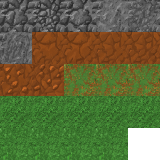
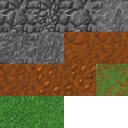
finished terrainsaving so far - some errors at reloading?
Implemented double Jump and pseudo terrain generation

diff --git a/src/org/jcing/jcingworld/engine/entities/Player.java b/src/org/jcing/jcingworld/engine/entities/Player.java
@@ -28,7 +28,22 @@ public class Player extends Entity {
 	private float upwardsSpeed = 0;
 	private float rightSpeed = 0;
 
+	
+	
+	private float xRotDelta;
+	private boolean doubleJumpRotation;
+	private long lastJump;
+	private float doubleJumpRotationDegrees;
+	private float doubleJumpRotationSpeed;
+	private static final float DOUBLEJUMPROTATIONACCELERATION= 37.5f;
+	private static final long JUMPTIMEDELTA = 150;
+	private static final float MAXDOUBLEJUMPROTATIONSPEED = 7.5f;
+	private static final int MAXDOUBLEJUMPS = 1;
+	
 	private Terrain terrain;
+	private boolean spaceReleased;
+	private float xRotDJDelta;
+	private int doubleJumps;
 
 	public Player(TexturedModel model, Vector3f position, float rotX, float rotY, float rotZ, float scale, Terrain terrain) {
 		super(model, position, rotX, rotY, rotZ, scale);
@@ -75,9 +90,23 @@ public class Player extends Entity {
 			upwardsSpeed += GRAVITY * DisplayManager.getFrameTimeSeconds();
 			if (KeyBoard.key(GLFW.GLFW_KEY_SPACE)) {
 				jump();
+				spaceReleased = false;
+			}else{
+				spaceReleased = true;
 			}
 		}
+		if(doubleJumpRotation){
+			if(doubleJumpRotationSpeed < MAXDOUBLEJUMPROTATIONSPEED)
+				doubleJumpRotationSpeed += DOUBLEJUMPROTATIONACCELERATION*DisplayManager.getFrameTimeSeconds();
 
+			doubleJumpRotationDegrees += doubleJumpRotationSpeed;
+			if(doubleJumpRotationDegrees >= 360){
+				doubleJumpRotationDegrees = 0;
+				doubleJumpRotation = false;
+			}
+		}
+		xRotDJDelta = doubleJumpRotationDegrees;
+		
 		// ROTATION Horizontal
 		this.increaseRotation(0, (float) (Mouse.deltaX * TURN * DisplayManager.getFrameTimeSeconds()), 0);
 
@@ -85,9 +114,12 @@ public class Player extends Entity {
 		if ((float) (Mouse.deltaY * TURN * DisplayManager.getFrameTimeSeconds()) + getRotX() > -90
 				&& (float) (Mouse.deltaY * TURN * DisplayManager.getFrameTimeSeconds()) + getRotX() < 90) {
 
-			this.increaseRotation((float) (Mouse.deltaY * TURN * DisplayManager.getFrameTimeSeconds()), 0, 0);
+			xRotDelta += (float) (Mouse.deltaY * TURN * DisplayManager.getFrameTimeSeconds());
+		}else{
+			System.out.println(getRotX());
 		}
-
+		xRotDelta %= 180;
+		this.setRotX((xRotDelta + xRotDJDelta) % 360);
 		// MOVEMENT
 
 		float distanceUp = 0.0f;
@@ -116,6 +148,7 @@ public class Player extends Entity {
 			// NOT FLYING
 			if (getPosition().y + speedUp < terrain.getHeightAt(getPosition().x, getPosition().z)) {
 				inAir = false;
+				doubleJumps = 0;
 				upwardsSpeed = 0;
 				speedUp = 0;
 				getPosition().y = terrain.getHeightAt(getPosition().x, getPosition().z);
@@ -139,11 +172,18 @@ public class Player extends Entity {
 
 	private void jump() {
 		if (!inAir) {
+			lastJump = DisplayManager.getLastFrameTime();
 			this.upwardsSpeed = JUMP_POWER;
+		}else if(!doubleJumpRotation && spaceReleased && doubleJumps < MAXDOUBLEJUMPS && DisplayManager.getLastFrameTime() - lastJump >= JUMPTIMEDELTA){
+			doubleJumps++;
+			doubleJumpRotationSpeed = 0;
+			this.upwardsSpeed += JUMP_POWER*(doubleJumps+2f)/3;
+			doubleJumpRotation = true;
 		}
 		inAir = true;
 	}
 
+	
 	public void moveCamera(Camera cam) {
 		// System.out.println("Y: " + getPosition().y);
 		cam.setPosition(new Vector3f(getPosition().x, getPosition().y + CAMERA_HEADOFFSET, getPosition().z));

diff --git a/src/org/jcing/jcingworld/engine/terrain/DataChunk.java b/src/org/jcing/jcingworld/engine/terrain/DataChunk.java
@@ -133,18 +133,28 @@ public class DataChunk {
 		assembleKeys();
 		Thread th = new Thread(){
 		    public void run(){
-		        WorldSaverFrame frame = new WorldSaverFrame();
+//		        WorldSaverFrame frame = new WorldSaverFrame();
 		        int i=0;
 		        for (int x : assembledKeys.keySet()) {
-		            frame.percent = (double)i/assembledKeys.size();
-		            frame.repaint();
+//		            frame.percent = (double)i/assembledKeys.size();
+//		            frame.repaint();
 		            save(x, assembledKeys.get(x));
+		            System.out.println("saved " + x + "|" + assembledKeys.get(x));
 		            i++;
 		        }
-		        frame.dispose();
+//		        frame.dispose();
+		        System.out.println("finished saving!");
+		        try {
+					join();
+				} catch (InterruptedException e) {
+					// TODO Auto-generated catch block
+					e.printStackTrace();
+				}
 		    }
 		};
 		th.run();
+		
+		
 	}
 
 	private boolean loaded(int xF, int zF) {

diff --git a/src/org/jcing/jcingworld/engine/terrain/Terrain.java b/src/org/jcing/jcingworld/engine/terrain/Terrain.java
@@ -136,8 +136,8 @@ public class Terrain {
 	}
 
 	public int tex(float x, float z, int max) {
-		// TODO Auto-generated method stub
-		return (int) Maths.fastFloor(gen.tex(x, z) * max);
+		System.out.println("TEX: " + (int)(gen.tex(x, z)));
+		return (int)(gen.tex(x, z) * (max-1));
 	}
 
 	boolean isSupposedToUnload(Point chunk) {
@@ -164,6 +164,16 @@ public class Terrain {
 		unloaded.clear();
 	}
 
+	
+	public void finish(){
+		ulc.setRunning(false);
+		try {
+			ulc.join();
+		} catch (InterruptedException e) {
+			// TODO Auto-generated catch block
+			e.printStackTrace();
+		}
+	}
 	//    public float getHeight(float x, float z) {
 	//        // float z = globalZ; // switch weil faul und fehler
 	//        // float x = globalX;

diff --git a/src/org/jcing/jcingworld/engine/DisplayManager.java b/src/org/jcing/jcingworld/engine/DisplayManager.java
@@ -152,6 +152,10 @@ public class DisplayManager {
         lastFrameTime = currentFrameTime;
         glfwPollEvents();
     }
+    
+    public static long getLastFrameTime(){
+    	return lastFrameTime;
+    }
 
     public static float getFrameTimeSeconds() {
         return delta;

diff --git a/src/org/jcing/jcingworld/engine/terrain/MapGenerator.java b/src/org/jcing/jcingworld/engine/terrain/MapGenerator.java
@@ -52,7 +52,7 @@ public class MapGenerator {
     }
 
     public float tex(float x, float z) {
-        return (height(x, z) + maxDelta) / (2.0f * maxDelta);
+    	return Math.min(Math.abs(noise(x,z,10,25)*(float) Math.sqrt(noise(x,z,10,25))),1);
     }
 
 }

diff --git a/src/org/jcing/jcingworld/game/Game.java b/src/org/jcing/jcingworld/game/Game.java
@@ -118,6 +118,7 @@ public class Game {
 	}
 
 	public void finish() {
+		terrain.finish();
 		Chunk.saver.finish();
 	}
 }
